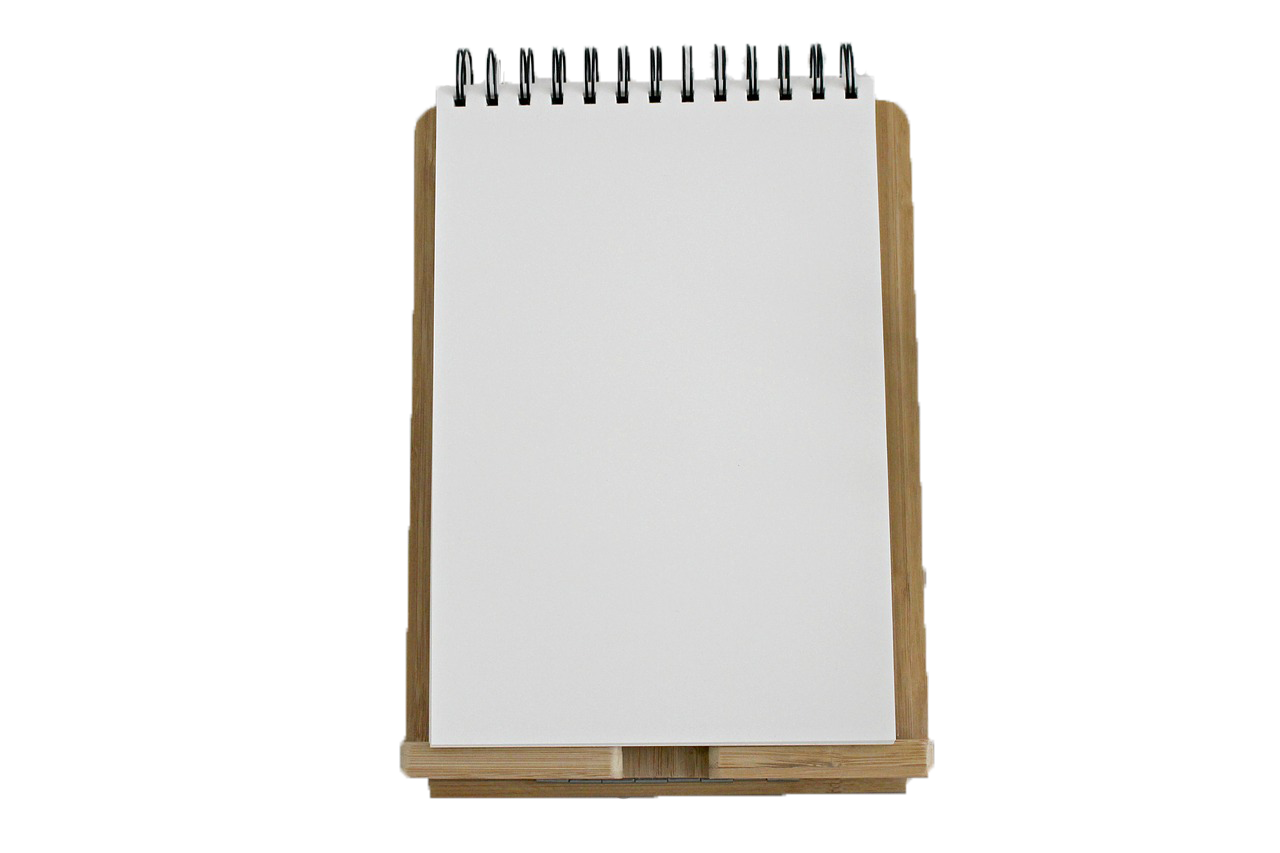
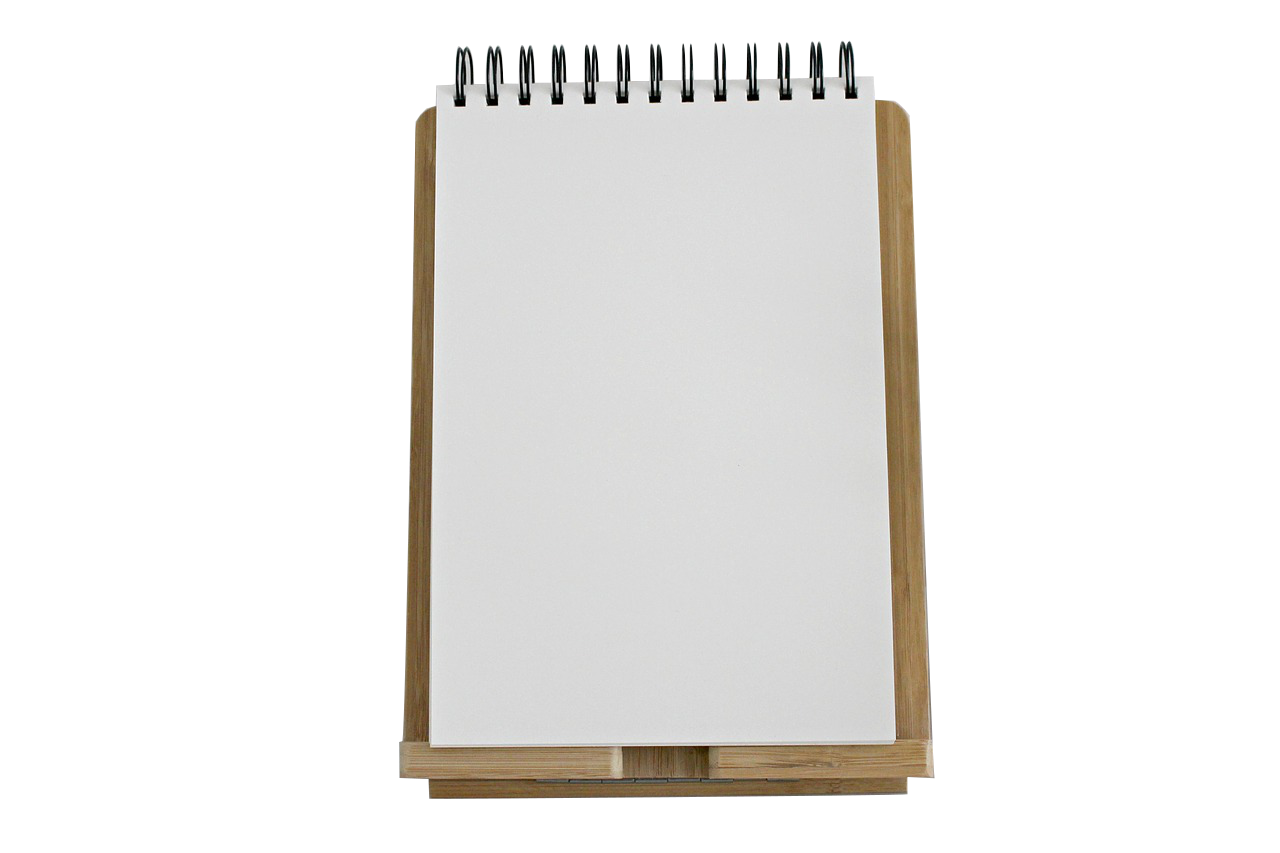
Upload  picture for search

diff --git a/app/assets/stylesheets/search.css.scss b/app/assets/stylesheets/search.css.scss
@@ -142,7 +142,7 @@
 .user-review{
   width: 1000px;
   height: 750px;
-  background-image: url("https://cdn.pixabay.com/photo/2017/07/02/21/34/notebook-2465914_1280.jpg");
+  background-image: url("notebook-2465914_1280.png");
   background-repeat:no-repeat;
   background-size: 980px auto;
   margin: auto;
